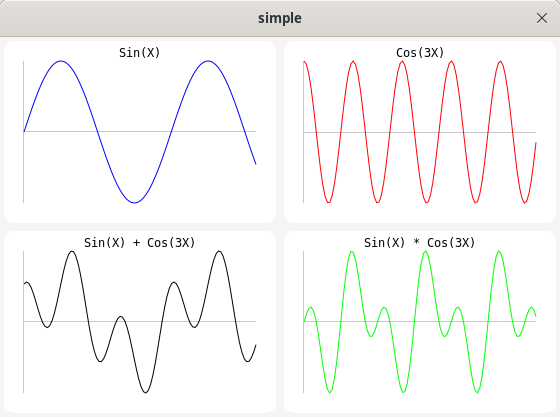
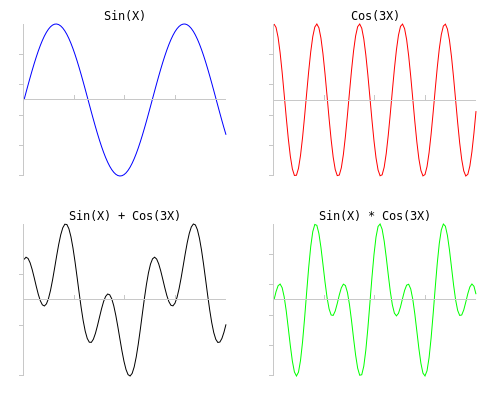
Started scale ticks

diff --git a/library/source/slope/axis2d.c b/library/source/slope/axis2d.c
@@ -153,7 +153,7 @@ base_add_top (SlopeItem *self, SlopeItem *child)
 static void
 axis2d_add_top (SlopeItem *self, SlopeItem *child)
 {
-    SLOPE_ITEM_CLASS (slope_axis2d_parent_class)->add_top (self, child);
+    base_add_top (self, child);
     put_scales_on_top (SLOPE_AXIS2D (self));
     slope_axis2d_update_scale (SLOPE_AXIS2D (self));
 }
@@ -162,7 +162,7 @@ axis2d_add_top (SlopeItem *self, SlopeItem *child)
 static void
 axis2d_add_bottom (SlopeItem *self, SlopeItem *child)
 {
-    SLOPE_ITEM_CLASS (slope_axis2d_parent_class)->add_bottom (self, child);
+    base_add_top (self, child);
     put_scales_on_top (SLOPE_AXIS2D (self));
     slope_axis2d_update_scale (SLOPE_AXIS2D (self));
 }
@@ -252,9 +252,7 @@ slope_axis2d_update_scale (SlopeAxis2D *self)
     }
 
     /* Init axis extents with the first plot's extents */
-    item = slope_item_from_tree_node (iter);
-    while (iter != NULL) {
-
+    for (; iter != NULL; iter = iter->next) {
         item = slope_item_from_tree_node (iter);
         if (SLOPE_IS_PLOT2D(item)) {
 
@@ -270,13 +268,10 @@ slope_axis2d_update_scale (SlopeAxis2D *self)
             iter = iter->next;
             break;
         }
-
-        iter = iter->next;
     }
 
     /* Update axis extents with the others */
-    while (iter != NULL) {
-
+    for (; iter != NULL; iter = iter->next) {
         item = slope_item_from_tree_node (iter);
         if (SLOPE_IS_PLOT2D(item)) {
 
@@ -290,8 +285,6 @@ slope_axis2d_update_scale (SlopeAxis2D *self)
             if (plt_y_min < m->dat_y_min) m->dat_y_min = plt_y_min;
             if (plt_y_max > m->dat_y_max) m->dat_y_max = plt_y_max;
         }
-
-        iter = iter->next;
     }
 
     m->dat_width = m->dat_x_max - m->dat_x_min;
@@ -334,57 +327,29 @@ axis2d_set_scales_position (SlopeAxis2D *self)
     SlopePoint fig_p1, fig_p2, zero;
     SlopeScale *scale;
 
-    fig_p1.x = m->fig_x_min;
-    fig_p1.y = m->fig_y_max;
-    fig_p2.x = m->fig_x_max;
-    fig_p2.y = m->fig_y_max;
-    scale = SLOPE_SCALE (m->scales[SCALE_BOTTOM]);
-    slope_scale_set_figure_position (scale, &fig_p1, &fig_p2);
-    slope_scale_set_data_extents (scale, m->dat_x_min, m->dat_x_max);
-
-    fig_p1.x = m->fig_x_min;
-    fig_p1.y = m->fig_y_max;
-    fig_p2.x = m->fig_x_min;
-    fig_p2.y = m->fig_y_min;
-    scale = SLOPE_SCALE (m->scales[SCALE_LEFT]);
-    slope_scale_set_figure_position (scale, &fig_p1, &fig_p2);
-    slope_scale_set_data_extents (scale, m->dat_y_min, m->dat_y_max);
-
-    fig_p1.x = m->fig_x_min;
-    fig_p1.y = m->fig_y_min;
-    fig_p2.x = m->fig_x_max;
-    fig_p2.y = m->fig_y_min;
-    scale = SLOPE_SCALE (m->scales[SCALE_TOP]);
-    slope_scale_set_figure_position (scale, &fig_p1, &fig_p2);
-    slope_scale_set_data_extents (scale, m->dat_x_min, m->dat_x_max);
-
-    fig_p1.x = m->fig_x_max;
-    fig_p1.y = m->fig_y_max;
-    fig_p2.x = m->fig_x_max;
-    fig_p2.y = m->fig_y_min;
-    scale = SLOPE_SCALE (m->scales[SCALE_RIGHT]);
-    slope_scale_set_figure_position (scale, &fig_p1, &fig_p2);
-    slope_scale_set_data_extents (scale, m->dat_y_min, m->dat_y_max);
-
     fig_p2.x = 0;
     fig_p2.y = 0;
     slope_axis2d_map (self, &zero, &fig_p2);
 
-    fig_p1.x = m->fig_x_min;
-    fig_p1.y = zero.y;
-    fig_p2.x = m->fig_x_max;
-    fig_p2.y = zero.y;
-    scale = SLOPE_SCALE (m->scales[SCALE_X]);
-    slope_scale_set_figure_position (scale, &fig_p1, &fig_p2);
-    slope_scale_set_data_extents (scale, m->dat_x_min, m->dat_x_max);
+#define SET_POS(LABEL,X1,Y1,X2,Y2,MIN,MAX) \
+    G_STMT_START { \
+        fig_p1.x = X1; \
+        fig_p1.y = Y1; \
+        fig_p2.x = X2; \
+        fig_p2.y = Y2; \
+        scale = SLOPE_SCALE (m->scales[SCALE_##LABEL]); \
+        slope_scale_set_figure_position (scale, &fig_p1, &fig_p2); \
+        slope_scale_set_data_extents (scale, MIN, MAX); \
+    } G_STMT_END
 
-    fig_p1.x = zero.x;
-    fig_p1.y = m->fig_y_max;
-    fig_p2.x = zero.x;
-    fig_p2.y = m->fig_y_min;
-    scale = SLOPE_SCALE (m->scales[SCALE_Y]);
-    slope_scale_set_figure_position (scale, &fig_p1, &fig_p2);
-    slope_scale_set_data_extents (scale, m->dat_y_min, m->dat_y_max);
+    SET_POS(BOTTOM, m->fig_x_min, m->fig_y_max, m->fig_x_max, m->fig_y_max, m->dat_x_min, m->dat_x_max);
+    SET_POS(LEFT, m->fig_x_min, m->fig_y_max, m->fig_x_min, m->fig_y_min, m->dat_y_min, m->dat_y_max);
+    SET_POS(TOP, m->fig_x_min, m->fig_y_min, m->fig_x_max, m->fig_y_min, m->dat_x_min, m->dat_x_max);
+    SET_POS(RIGHT, m->fig_x_max, m->fig_y_max, m->fig_x_max, m->fig_y_min, m->dat_y_min, m->dat_y_max);
+    SET_POS(X, m->fig_x_min, zero.y, m->fig_x_max, zero.y, m->dat_x_min, m->dat_x_max);
+    SET_POS(Y, zero.x, m->fig_y_max, zero.x, m->fig_y_min, m->dat_y_min, m->dat_y_max);
+
+#undef SET_POS
 }
 
 

diff --git a/library/source/slope/scale.c b/library/source/slope/scale.c
@@ -21,6 +21,7 @@
 #include "slope/scale.h"
 #include "slope/color.h"
 #include "slope/sampler.h"
+#include "math.h"
 
 typedef struct _SlopeScalePrivate SlopeScalePrivate;
 #define SLOPE_SCALE_PRIVATE(Addr) ((SlopeScalePrivate*) (Addr))
@@ -139,6 +140,8 @@ slope_scale_set_data_extents (SlopeScale *self, double min, double max)
 
     m->data_min = min;
     m->data_max = max;
+
+    slope_sampler_auto_sample_decimal(&m->sampler, m->data_min, m->data_max, 1.0);
 }
 
 
@@ -147,9 +150,13 @@ scale_draw_self (SlopeItem *self, const SlopeItemDC *dc)
 {
     SlopeScalePrivate *m = SLOPE_SCALE_GET_PRIVATE (self);
     cairo_antialias_t antialias = CAIRO_ANTIALIAS_GOOD;
-    SlopePoint direc;
+    SlopePoint line, direc, ortog;
+    double length, step;
 
-    SLOPE_POINT_DIFF(direc, m->fig_p2, m->fig_p1);
+    slope_point_get_diff(line, m->fig_p2, m->fig_p1);
+    slope_point_get_normalized(direc, line);
+    slope_point_get_ortogonal(ortog, direc);
+    length = slope_point_length(line);
 
     if (!m->antialias
             || slope_float_similar_zero(direc.x)
@@ -157,6 +164,7 @@ scale_draw_self (SlopeItem *self, const SlopeItemDC *dc)
         antialias = CAIRO_ANTIALIAS_NONE;
     }
 
+    /* main line */
     if (slope_color_is_visible(m->line_color)) {
         slope_cairo_set_rgba (dc->cr, m->line_color);
         cairo_set_antialias (dc->cr, antialias);
@@ -164,6 +172,25 @@ scale_draw_self (SlopeItem *self, const SlopeItemDC *dc)
         cairo_move_to (dc->cr, m->fig_p1.x, m->fig_p1.y);
         cairo_line_to (dc->cr, m->fig_p2.x, m->fig_p2.y);
         cairo_stroke (dc->cr);
+    }
+
+    /* sample ticks */
+    if (0 < m->sampler.size) {
+        SlopePoint p1 = m->fig_p1;
+        SlopePoint p2 = p1;
+        gulong k, n = m->sampler.size;
+        step = length / n;
+
+        slope_move(p2, 5, ortog);
+
+        for (k = 0; k < n; ++k) {
+            cairo_move_to(dc->cr, p1.x, p1.y);
+            cairo_line_to(dc->cr, p2.x, p2.y);
+            cairo_stroke(dc->cr);
+
+            slope_move(p1, step, direc);
+            slope_move(p2, step, direc);
+        }
     }
 }
 

diff --git a/library/source/slope/series2d.c b/library/source/slope/series2d.c
@@ -132,7 +132,7 @@ slope_series2d_format (SlopeSeries2D *self, const char *format)
     SlopeSeries2DPrivate *m;
     SlopeRGBA color = SLOPE_BLACK;
 
-    g_return_if_fail (SLOPE_IS_SERIES2D (self));
+    g_assert (SLOPE_IS_SERIES2D (self));
     m = SLOPE_SERIES2D_GET_PRIVATE (self);
 
     slope_disable(m->options, SLOPE_SERIES2D_DRAW_LINE);
@@ -182,8 +182,7 @@ series2d_draw_self (SlopeItem *self, const SlopeItemDC *dc)
     SlopeSeries2DPrivate *m;
     SlopeAxis2D *axis;
 
-    g_return_if_fail (SLOPE_IS_SERIES2D (self));
-
+    g_assert (SLOPE_IS_SERIES2D (self));
     m = SLOPE_SERIES2D_GET_PRIVATE (self);
     axis = SLOPE_AXIS2D (slope_item_get_parent (self));
 
@@ -221,9 +220,10 @@ series2d_get_data_extents (SlopePlot2D *self,
                            double *y_min, double *y_max)
 {
     SlopeSeries2DPrivate *m;
-    g_return_if_fail (SLOPE_IS_SERIES2D (self));
 
+    g_assert (SLOPE_IS_SERIES2D (self));
     m = SLOPE_SERIES2D_GET_PRIVATE (self);
+
     *x_min = m->x_min;
     *x_max = m->x_max;
     *y_min = m->y_min;
@@ -238,7 +238,7 @@ void slope_series2d_set_data (SlopeSeries2D *self,
     SlopePoint *pts;
     gulong k, npts;
 
-    g_return_if_fail (SLOPE_IS_SERIES2D (self));
+    g_assert (SLOPE_IS_SERIES2D (self));
     m = SLOPE_SERIES2D_GET_PRIVATE (self);
 
     /* Default values for no data */
@@ -267,6 +267,11 @@ void slope_series2d_set_data (SlopeSeries2D *self,
                 if (pts[k].y < m->y_min) m->y_min = pts[k].y;
                 if (pts[k].y > m->y_max) m->y_max = pts[k].y;
             }
+        }
+
+        if ((m->x_max <= m->x_min) || (m->y_max <= m->y_min)) {
+            g_warning("Slope", G_LOG_LEVEL_ERROR,
+                      "Series2D has improper data range");
         }
     }
 }

diff --git a/library/source/slope/plot2d.c b/library/source/slope/plot2d.c
@@ -31,8 +31,13 @@ struct _SlopePlot2DPrivate
 };
 
 
+#define SLOPE_PLOT2D_GET_PRIVATE(obj) \
+    (G_TYPE_INSTANCE_GET_PRIVATE((obj), \
+    SLOPE_TYPE_PLOT2D, SlopePlot2DPrivate))
+
+
 G_DEFINE_TYPE_WITH_PRIVATE (SlopePlot2D, slope_plot2d, SLOPE_TYPE_ITEM)
-#define SLOPE_PLOT2D_GET_PRIVATE(obj) (G_TYPE_INSTANCE_GET_PRIVATE((obj), SLOPE_TYPE_PLOT2D, SlopePlot2DPrivate))
+
 
 /* local decls */
 static void plot2d_finalize (GObject *self);
@@ -84,6 +89,7 @@ plot2d_get_data_extents (SlopePlot2D *self,
                          double *x_min, double *x_max,
                          double *y_min, double *y_max)
 {
+    SLOPE_UNUSED(self);
     *x_min = *y_min = 0.0;
     *x_max = *y_max = 1.0;
 }
@@ -94,6 +100,7 @@ slope_plot2d_get_data_extents (SlopePlot2D *self,
                                double *x_min, double *x_max,
                                double *y_min, double *y_max)
 {
+    g_assert (SLOPE_IS_PLOT2D (self));
     SLOPE_PLOT2D_GET_CLASS (self)->get_data_extents (
                 self, x_min, x_max, y_min, y_max);
 }
@@ -102,7 +109,6 @@ slope_plot2d_get_data_extents (SlopePlot2D *self,
 static void
 plot2d_draw_self (SlopeItem *self, const SlopeItemDC *dc)
 {
-    /* draw the frame stuff */
     SLOPE_ITEM_CLASS (slope_plot2d_parent_class)->draw_self (self, dc);
 }
 

diff --git a/library/include/slope/drawing.h b/library/include/slope/drawing.h
@@ -44,17 +44,47 @@ _SlopeRect {
 } SlopeRect;
 
 
-#define SLOPE_POINT_DIFF(RES,LHS,RHS) \
+#define slope_point_get_diff(RES,LHS,RHS) \
     G_STMT_START {\
         (RES).x = (LHS).x - (RHS).x; \
         (RES).y = (LHS).y - (RHS).y; \
     } G_STMT_END
 
 
-#define SLOPE_POINT_SUM(RES,LHS,RHS) \
+#define slope_point_get_sum(RES,LHS,RHS) \
     G_STMT_START {\
         (RES).x = (LHS).x + (RHS).x; \
         (RES).y = (LHS).y + (RHS).y; \
+    } G_STMT_END
+
+
+#define slope_point_get_ortogonal(R,P) \
+    G_STMT_START {\
+        (R).x = (P).y; \
+        (R).y = -(P).x; \
+    } G_STMT_END
+
+
+#define slope_point_dotprod(LHS,RHS) \
+    ((LHS).x * (RHS).x + (LHS).y * (RHS).y)
+
+
+#define slope_point_length(V) \
+    sqrt(slope_point_dotprod(V,V))
+
+
+#define slope_point_get_normalized(N,V) \
+    G_STMT_START {\
+        double len = slope_point_length(V); \
+        (N).x = (V).x / len; \
+        (N).y = (V).y / len; \
+    } G_STMT_END
+
+
+#define slope_move(Pt, Dist, Direc) \
+    G_STMT_START {\
+        (Pt).x += (Dist) * (Direc).x; \
+        (Pt).y += (Dist) * (Direc).y; \
     } G_STMT_END
 
 

diff --git a/library/include/slope/axis2d.h b/library/include/slope/axis2d.h
@@ -99,9 +99,9 @@ void slope_axis2d_set_scales (SlopeAxis2D *self, SlopeAxisScale scales);
 
 void slope_axis2d_update_scale (SlopeAxis2D *self);
 
-void slope_axis2d_map (SlopeAxis2D *self, SlopePoint *f, const SlopePoint *d);
+void slope_axis2d_map (SlopeAxis2D *self, SlopePoint *figpos, const SlopePoint *datapos);
 
-void slope_axis2d_unmap (SlopeAxis2D *self, SlopePoint *d, const SlopePoint *f);
+void slope_axis2d_unmap (SlopeAxis2D *self, SlopePoint *datapos, const SlopePoint *figpos);
 
 G_END_DECLS
 
